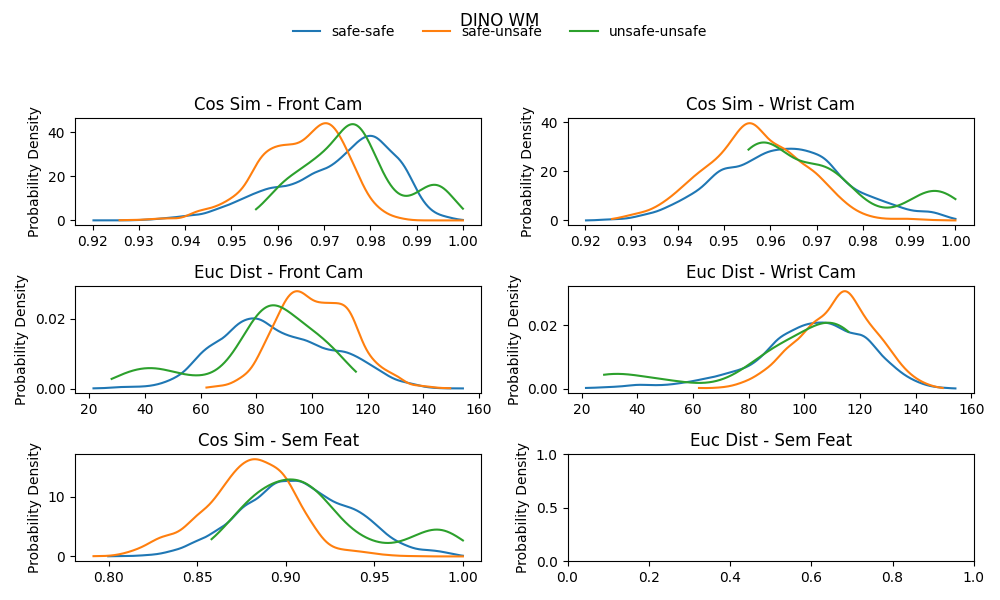
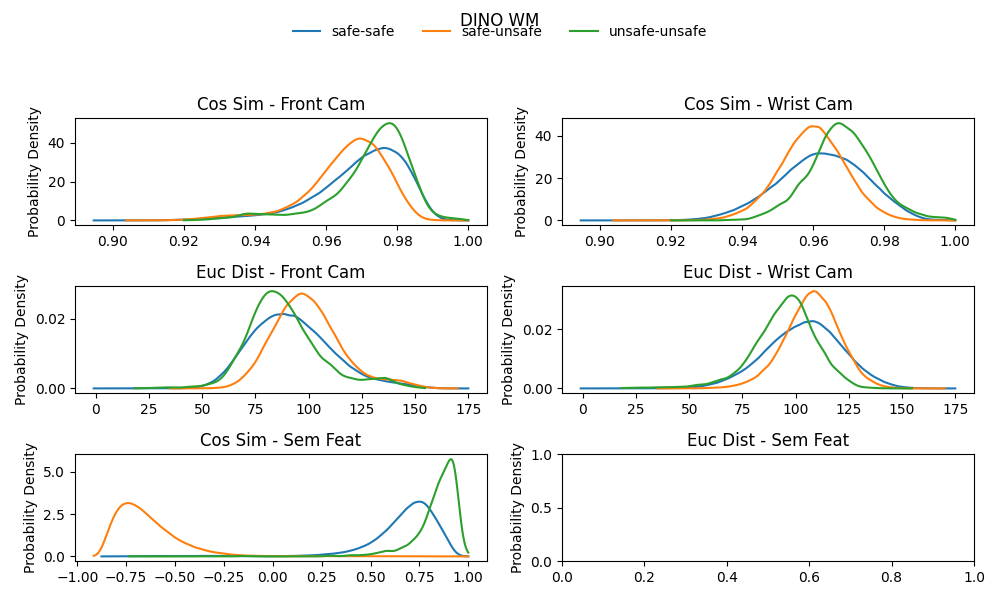
Made sure no double counting was happening

diff --git a/dino_wm/eval_dino_cosine_sim.py b/dino_wm/eval_dino_cosine_sim.py
@@ -92,10 +92,12 @@ if __name__ == "__main__":
     torch.manual_seed(seed)
     torch.cuda.manual_seed(seed)
 
-    BS, BL = 16, 4
-    hdf5_file = "/home/sunny/data/skittles/vlog-test-labeled/consolidated.h5"
+    BS, BL = 100, 4
+    # hdf5_file = "/home/sunny/data/skittles/vlog-test-labeled/consolidated.h5"
+    # expert_data = SplitTrajectoryDataset(hdf5_file, BL, split="train", num_test=0)
 
-    expert_data = SplitTrajectoryDataset(hdf5_file, BL, split="train", num_test=0)
+    hdf5_file = "/home/sunny/data/skittles/consolidated.h5"
+    expert_data = SplitTrajectoryDataset(hdf5_file, BL, split="test", num_test=100)
     expert_loader = iter(DataLoader(expert_data, batch_size=BS, shuffle=True))
 
     device = "cuda:0"
@@ -111,7 +113,7 @@ if __name__ == "__main__":
         num_frames=BL - 1,
         dropout=0.1,
     ).to(device)
-    # transition.load_state_dict(torch.load("checkpoints_pa/best_encoder.pth"))
+    transition.load_state_dict(torch.load("checkpoints_pa/encoder_0.1.pth"))
     transition.eval()
 
     decoder = VQVAE().to(device)
@@ -124,10 +126,14 @@ if __name__ == "__main__":
     )
 
     def init_nested_dict():
+        # return {
+        #     "safe": {"safe": [], "unsafe": [], "weak_unsafe": []},
+        #     "unsafe": {"unsafe": [], "weak_unsafe": []},
+        #     "weak_unsafe": {"weak_unsafe": []},
+        # }
         return {
-            "safe": {"safe": [], "unsafe": [], "weak_unsafe": []},
-            "unsafe": {"unsafe": [], "weak_unsafe": []},
-            "weak_unsafe": {"weak_unsafe": []},
+            "safe": {"safe": [], "unsafe": []},
+            "unsafe": {"unsafe": []},
         }
 
     cosine_similarities_cam_1 = init_nested_dict()
@@ -140,13 +146,17 @@ if __name__ == "__main__":
         "cos_sim": -float("inf"),
         "wrist_image1": None,
         "front_image1": None,
-        "class1": None,
         "wrist_image2": None,
         "front_image2": None,
-        "class2": None,
     }
     furthest_same_class = copy.deepcopy(closest_diff_class)
-    furthest_same_class["cos_sim"] = 1.0
+    furthest_same_class["cos_sim"] = float("inf")
+
+    failure_modes = {
+        "safe_safe": copy.deepcopy(furthest_same_class),
+        "unsafe_unsafe": copy.deepcopy(furthest_same_class),
+        "safe_unsafe": copy.deepcopy(closest_diff_class),
+    }
 
     for _ in tqdm(range(len(expert_loader) - 1), desc="Computing cosine similarities"):
         data = next(expert_loader)
@@ -160,8 +170,8 @@ if __name__ == "__main__":
 
         masks = {
             "safe": data["failure"][:, 0] == 0.0,
-            "unsafe": data["failure"][:, 0] == 1.0,
-            "weak_unsafe": data["failure"][:, 0] == 2.0,
+            "unsafe": (data["failure"][:, 0] == 1.0) | (data["failure"][:, 0] == 2.0),
+            # "weak_unsafe": data["failure"][:, 0] == 2.0,
         }
 
         embed_cam_1_class = {k: embed_cam_1[m] for k, m in masks.items()}
@@ -191,8 +201,11 @@ if __name__ == "__main__":
 
                         # Compute cosine similarity
                         cos_sim_matrix = anchors_norm @ queries_norm.T
-                        if k1 == k2:  # Avoid self-comparison
-                            cos_sim_matrix.fill_diagonal_(-2.0)
+                        if k1 == k2:  # Avoid self-comparison and double counting
+                            mask = torch.triu(
+                                torch.ones_like(cos_sim_matrix), diagonal=1
+                            ).bool()
+                            cos_sim_matrix[~mask] = -2.0  # Set masked values to -2.0
                         cos_sim = cos_sim_matrix[cos_sim_matrix != -2.0].flatten()
                         cos_dict[k1][k2].append(cos_sim.cpu().numpy())
 
@@ -215,56 +228,67 @@ if __name__ == "__main__":
                     )  # [M, Z]
 
                     # Compute cosine similarity as dot product of normalized vectors
-                    cos_sim_matrix = anchors_norm @ queries_norm.T
+                    cos_sim_matrix = anchors_norm @ queries_norm.T  # [N, M]
 
                     if k1 == k2:
-                        mask = cos_sim_matrix < furthest_same_class["cos_sim"]
+                        mask = cos_sim_matrix < failure_modes[f"{k1}_{k2}"]["cos_sim"]
                         if mask.any():
-                            furthest_same_class["cos_sim"] = cos_sim_matrix[mask].min()
-                            mask = cos_sim_matrix == furthest_same_class["cos_sim"]
+                            failure_modes[f"{k1}_{k2}"]["cos_sim"] = cos_sim_matrix[
+                                mask
+                            ].min()
+                            mask = (
+                                cos_sim_matrix == failure_modes[f"{k1}_{k2}"]["cos_sim"]
+                            )
                             index_1, index_2 = (mask).nonzero(as_tuple=False)[0]
-                            furthest_same_class["wrist_image1"] = data[
+                            failure_modes[f"{k1}_{k2}"]["wrist_image1"] = data[
                                 "robot0_eye_in_hand_image"
                             ][masks[k1]][index_1, -1]
-                            furthest_same_class["front_image1"] = data[
+                            failure_modes[f"{k1}_{k2}"]["front_image1"] = data[
                                 "agentview_image"
                             ][masks[k1]][index_1, -1]
-                            furthest_same_class["class1"] = k1
-                            furthest_same_class["wrist_image2"] = data[
+                            failure_modes[f"{k1}_{k2}"]["class1"] = k1
+                            failure_modes[f"{k1}_{k2}"]["wrist_image2"] = data[
                                 "robot0_eye_in_hand_image"
                             ][masks[k2]][index_2, -1]
-                            furthest_same_class["front_image2"] = data[
+                            failure_modes[f"{k1}_{k2}"]["front_image2"] = data[
                                 "agentview_image"
                             ][masks[k2]][index_2, -1]
-                            furthest_same_class["class2"] = k2
+                            failure_modes[f"{k1}_{k2}"]
+                            failure_modes[f"{k1}_{k2}"]["class2"] = k2
 
-                    if k1 != k2 and set([k1, k2]) == {
-                        "weak_unsafe",
-                        "unsafe",
-                    }:  # too similar to be interesting
-                        mask = cos_sim_matrix > closest_diff_class["cos_sim"]
+                    if k1 != k2:
+                        if f"{k1}_{k2}" not in failure_modes:
+                            continue
+                        mask = cos_sim_matrix > failure_modes[f"{k1}_{k2}"]["cos_sim"]
                         if mask.any():
-                            closest_diff_class["cos_sim"] = cos_sim_matrix[mask].max()
-                            mask = cos_sim_matrix == closest_diff_class["cos_sim"]
+                            failure_modes[f"{k1}_{k2}"]["cos_sim"] = cos_sim_matrix[
+                                mask
+                            ].max()
+                            mask = (
+                                cos_sim_matrix == failure_modes[f"{k1}_{k2}"]["cos_sim"]
+                            )
                             index_1, index_2 = (mask).nonzero(as_tuple=False)[0]
-                            closest_diff_class["wrist_image1"] = data[
+                            failure_modes[f"{k1}_{k2}"]["wrist_image1"] = data[
                                 "robot0_eye_in_hand_image"
                             ][masks[k1]][index_1, -1]
-                            closest_diff_class["front_image1"] = data[
+                            failure_modes[f"{k1}_{k2}"]["front_image1"] = data[
                                 "agentview_image"
                             ][masks[k1]][index_1, -1]
-                            closest_diff_class["class1"] = k1
-                            closest_diff_class["wrist_image2"] = data[
+                            failure_modes[f"{k1}_{k2}"]["class1"] = k1
+                            failure_modes[f"{k1}_{k2}"]["wrist_image2"] = data[
                                 "robot0_eye_in_hand_image"
                             ][masks[k2]][index_2, -1]
-                            closest_diff_class["front_image2"] = data[
+                            failure_modes[f"{k1}_{k2}"]["front_image2"] = data[
                                 "agentview_image"
                             ][masks[k2]][index_2, -1]
-                            closest_diff_class["class2"] = k2
+                            failure_modes[f"{k1}_{k2}"]["class2"] = k2
 
-                    if k1 == k2:  # Avoid self-comparison
-                        cos_sim_matrix.fill_diagonal_(-2.0)
-                    cos_sim_sem = cos_sim_matrix[cos_sim_matrix != -2.0].flatten()
+                    if k1 == k2:  # avoid double counting and self comparison
+                        mask = torch.triu(
+                            torch.ones_like(cos_sim_matrix), diagonal=1
+                        ).bool()
+                        cos_sim_matrix[~mask] = -2.0  # Set masked values to -2.0
+                    cos_sim_sem = cos_sim_matrix[cos_sim_matrix != -2.0]
                     cosine_similarities_sem[k1][k2].append(cos_sim_sem.cpu().numpy())
 
     # Plotting
@@ -286,8 +310,6 @@ if __name__ == "__main__":
     for k1 in cosine_similarities_cam_1:
         for k2 in cosine_similarities_cam_1[k1]:
             if cosine_similarities_cam_1[k1][k2]:
-                if k1 == "weak_unsafe" or k2 == "weak_unsafe":
-                    continue
                 cs1 = np.concatenate(cosine_similarities_cam_1[k1][k2])
                 cs2 = np.concatenate(cosine_similarities_cam_2[k1][k2])
                 ed1 = np.concatenate(euc_distances_cam_1[k1][k2])
@@ -328,21 +350,33 @@ if __name__ == "__main__":
     plt.savefig("latent_analysis.png")
 
     fig = plt.figure(figsize=(12, 6))
-    outer = gridspec.GridSpec(2, 1, height_ratios=[1, 1], hspace=0.5)
+    outer = gridspec.GridSpec(
+        len(failure_modes.keys()),
+        1,
+        height_ratios=[
+            1,
+        ]
+        * len(failure_modes),
+        hspace=0.5,
+    )
 
-    group_data = [closest_diff_class, furthest_same_class]
-    group_titles = [
-        f"Closest Diff Class Pair - Cos Sim: {closest_diff_class['cos_sim']:.2f}",
-        f"Furthest Same Class Pair - Cos Sim: {furthest_same_class['cos_sim']:.2f}",
-    ]
+    group_titles = []
+
+    for k in failure_modes:
+        group_titles.append(
+            f"Failure Mode: {k}, Cos Sim: {failure_modes[k]['cos_sim']:.2f}"
+        )
 
     # Y positions for group titles in figure coordinates
     group_title_positions = [
-        0.95,
-        0.48,
+        0.93,
+        0.64,
+        0.34,
     ]  # increase second one slightly to avoid overlap
 
-    for group_idx, (data_dict, title) in enumerate(zip(group_data, group_titles)):
+    for group_idx, (data_dict, title) in enumerate(
+        zip(failure_modes.values(), group_titles)
+    ):
         inner = gridspec.GridSpecFromSubplotSpec(
             1, 4, subplot_spec=outer[group_idx], wspace=0.3
         )
@@ -350,8 +384,13 @@ if __name__ == "__main__":
         for j, key in enumerate(
             ["wrist_image1", "front_image1", "wrist_image2", "front_image2"]
         ):
+            if data_dict[key] is None:
+                continue
             ax = plt.Subplot(fig, inner[j])
-            ax.imshow(data_dict[key])
+            image = np.array(data_dict[key], dtype=np.float32)
+            if np.max(image) > 1.0:
+                image = image / 255.0
+            ax.imshow(image)
             ax.set_title(f"{key}, Class: {data_dict[f'class{j // 2 + 1}']}", fontsize=9)
             ax.axis("off")
             fig.add_subplot(ax)

diff --git a/dino_wm/train_failure_classifier_pa.py b/dino_wm/train_failure_classifier_pa.py
@@ -388,8 +388,9 @@ for epoch in range(0, args.nb_epochs):
             for idx, (i, j) in enumerate(class_pairs):
                 cos_sim = X_class[i] @ X_class[j].T
 
-                if i == j:
-                    np.fill_diagonal(cos_sim, -2.0)
+                if i == j:  # Avoid self-comparison and double counting
+                    masks = torch.triu(torch.ones_like(cos_sim), diagonal=1).bool()
+                    cos_sim[~masks] = -2.0  # Set masked values to -2.0
                 cos_sim = cos_sim[cos_sim != -2.0].flatten()
 
                 if len(cos_sim) > 1000:
